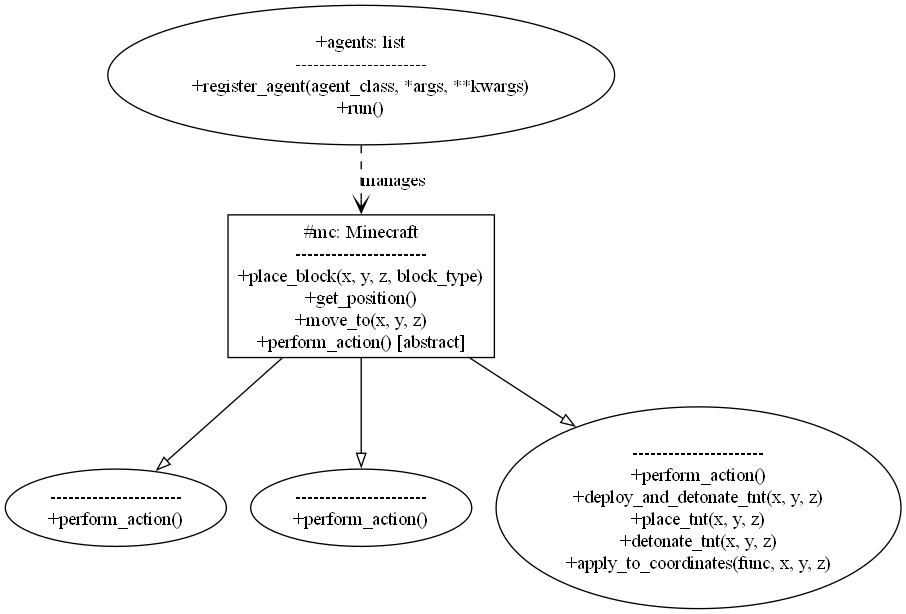
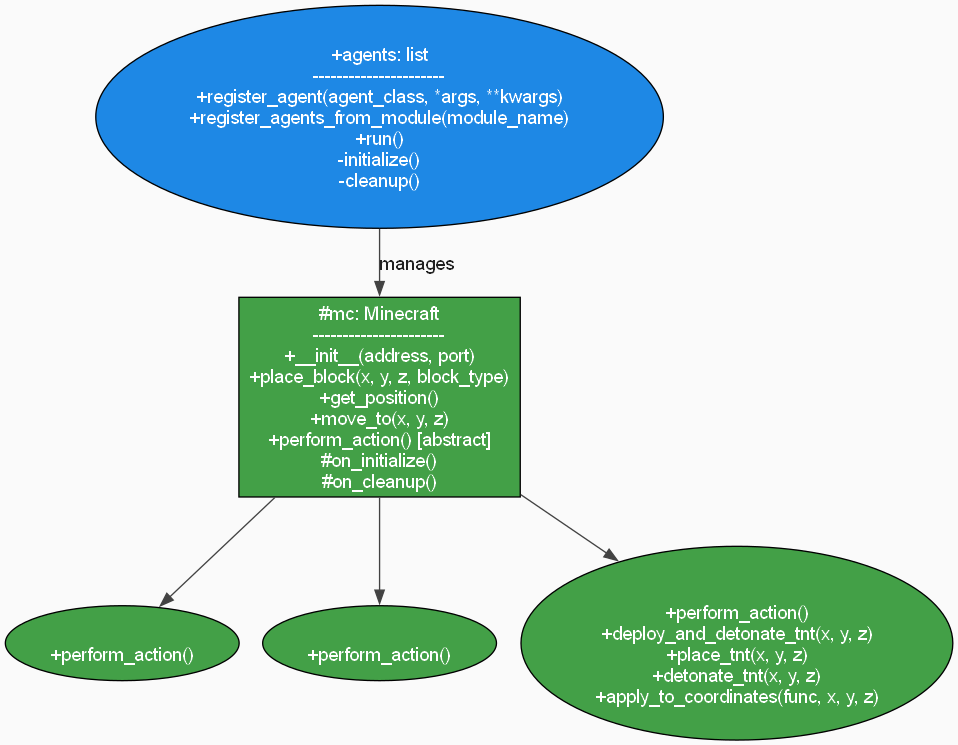
Reflective programming and new Diagrams

diff --git a/AdventuresInMinecraft-PC/MyAdventures/start.py b/AdventuresInMinecraft-PC/MyAdventures/start.py
@@ -1,15 +1,11 @@
 from agentFramework import AgentFramework
-from insultBot import InsultBot
-from tntBot import TNTBot
-from oracleBot import OracleBot
-
 
 if __name__ == "__main__":
     # Crea una instancia del framework de agentes
     framework = AgentFramework()
-    # Registra los agentes
-    framework.register_agent(InsultBot)
-    framework.register_agent(TNTBot)
-    framework.register_agent(OracleBot)
+    # Registra los agentes desde el módulo especificado
+    framework.register_agents_from_module('insultBot')
+    framework.register_agents_from_module('tntBot')
+    framework.register_agents_from_module('oracleBot')
     # Ejecuta el framework
     framework.run()

diff --git a/AdventuresInMinecraft-PC/MyAdventures/agentFramework.py b/AdventuresInMinecraft-PC/MyAdventures/agentFramework.py
@@ -1,5 +1,6 @@
 import time
 import mcpi.minecraft as minecraft
+import importlib
 
 class AgentFramework:
     def __init__(self):
@@ -17,6 +18,14 @@ class AgentFramework:
             for agent in self.agents:
                 agent.perform_action()
             time.sleep(2)  # Ajusta el intervalo según sea necesario
+
+    def register_agents_from_module(self, module_name):
+        # Importa el módulo y registra todas las clases que heredan de BaseAgent
+        module = importlib.import_module(module_name)
+        for name in dir(module):
+            obj = getattr(module, name)
+            if isinstance(obj, type) and issubclass(obj, BaseAgent) and obj is not BaseAgent:
+                self.register_agent(obj)
 
 class BaseAgent:
     def __init__(self, address="localhost", port=4711):